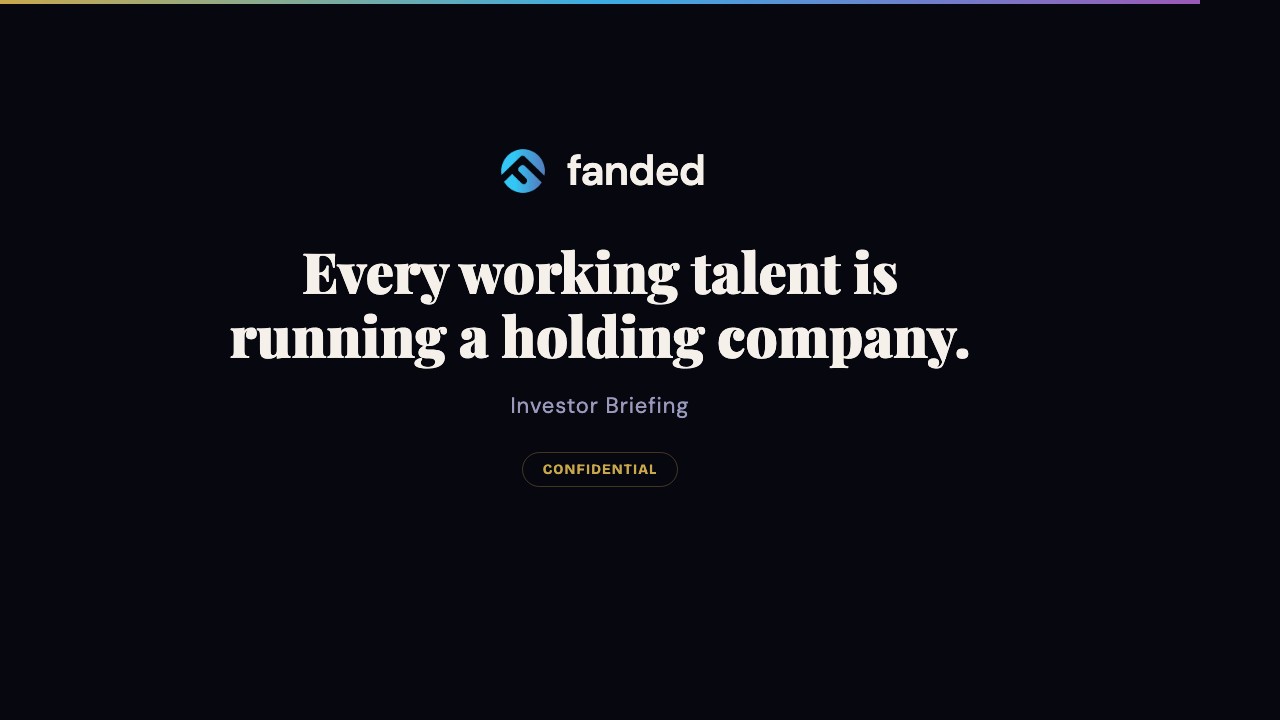
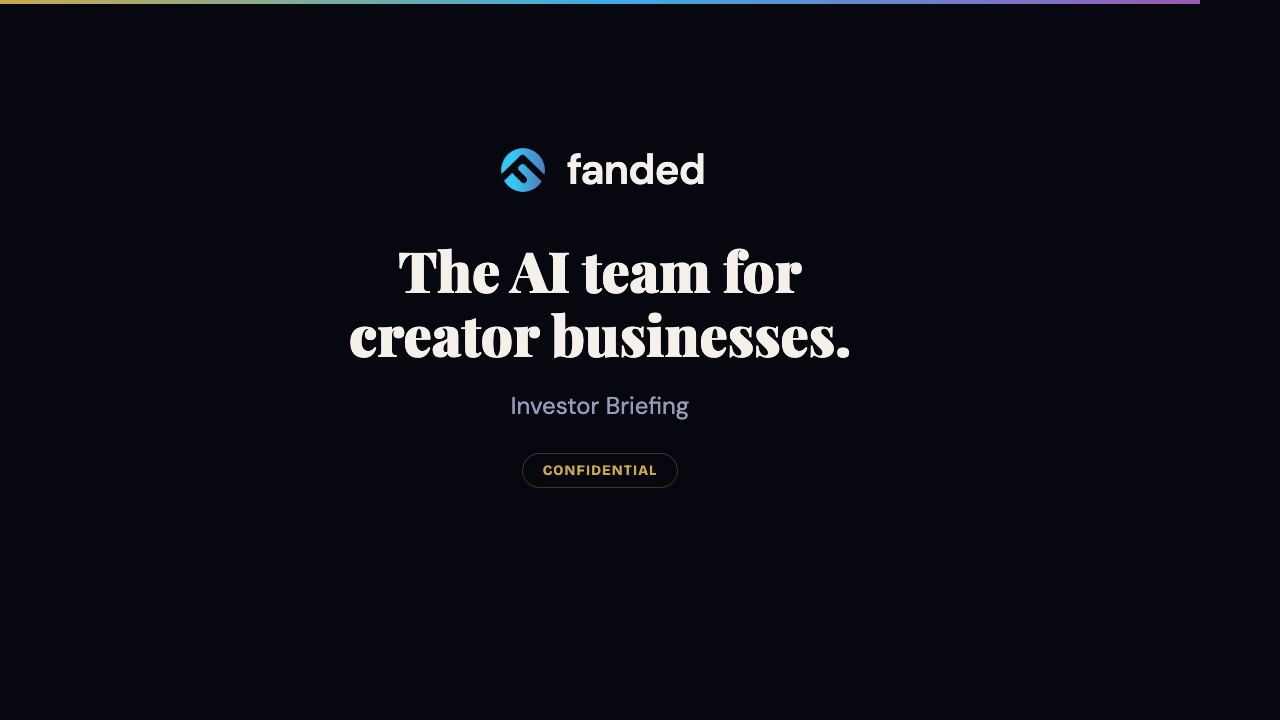
content: update OG image and description to 'The AI team for creator businesses'

diff --git a/index.html b/index.html
@@ -6,7 +6,7 @@
 <title>Fanded - Investor Briefing</title>
 <meta name="robots" content="noindex, nofollow">
 <meta property="og:title" content="Fanded - Investor Briefing">
-<meta property="og:description" content="Every working talent is running a holding company.">
+<meta property="og:description" content="The AI team for creator businesses.">
 <meta property="og:image" content="https://fanded-investor-narrative.vercel.app/og-image.png">
 <meta property="og:image:width" content="1200">
 <meta property="og:image:height" content="630">
@@ -14,7 +14,7 @@
 <meta property="og:url" content="https://fanded-investor-narrative.vercel.app">
 <meta name="twitter:card" content="summary_large_image">
 <meta name="twitter:title" content="Fanded - Investor Briefing">
-<meta name="twitter:description" content="Every working talent is running a holding company.">
+<meta name="twitter:description" content="The AI team for creator businesses.">
 <meta name="twitter:image" content="https://fanded-investor-narrative.vercel.app/og-image.png">
 <meta name="apple-mobile-web-app-capable" content="yes">
 <meta name="apple-mobile-web-app-status-bar-style" content="black-translucent">
